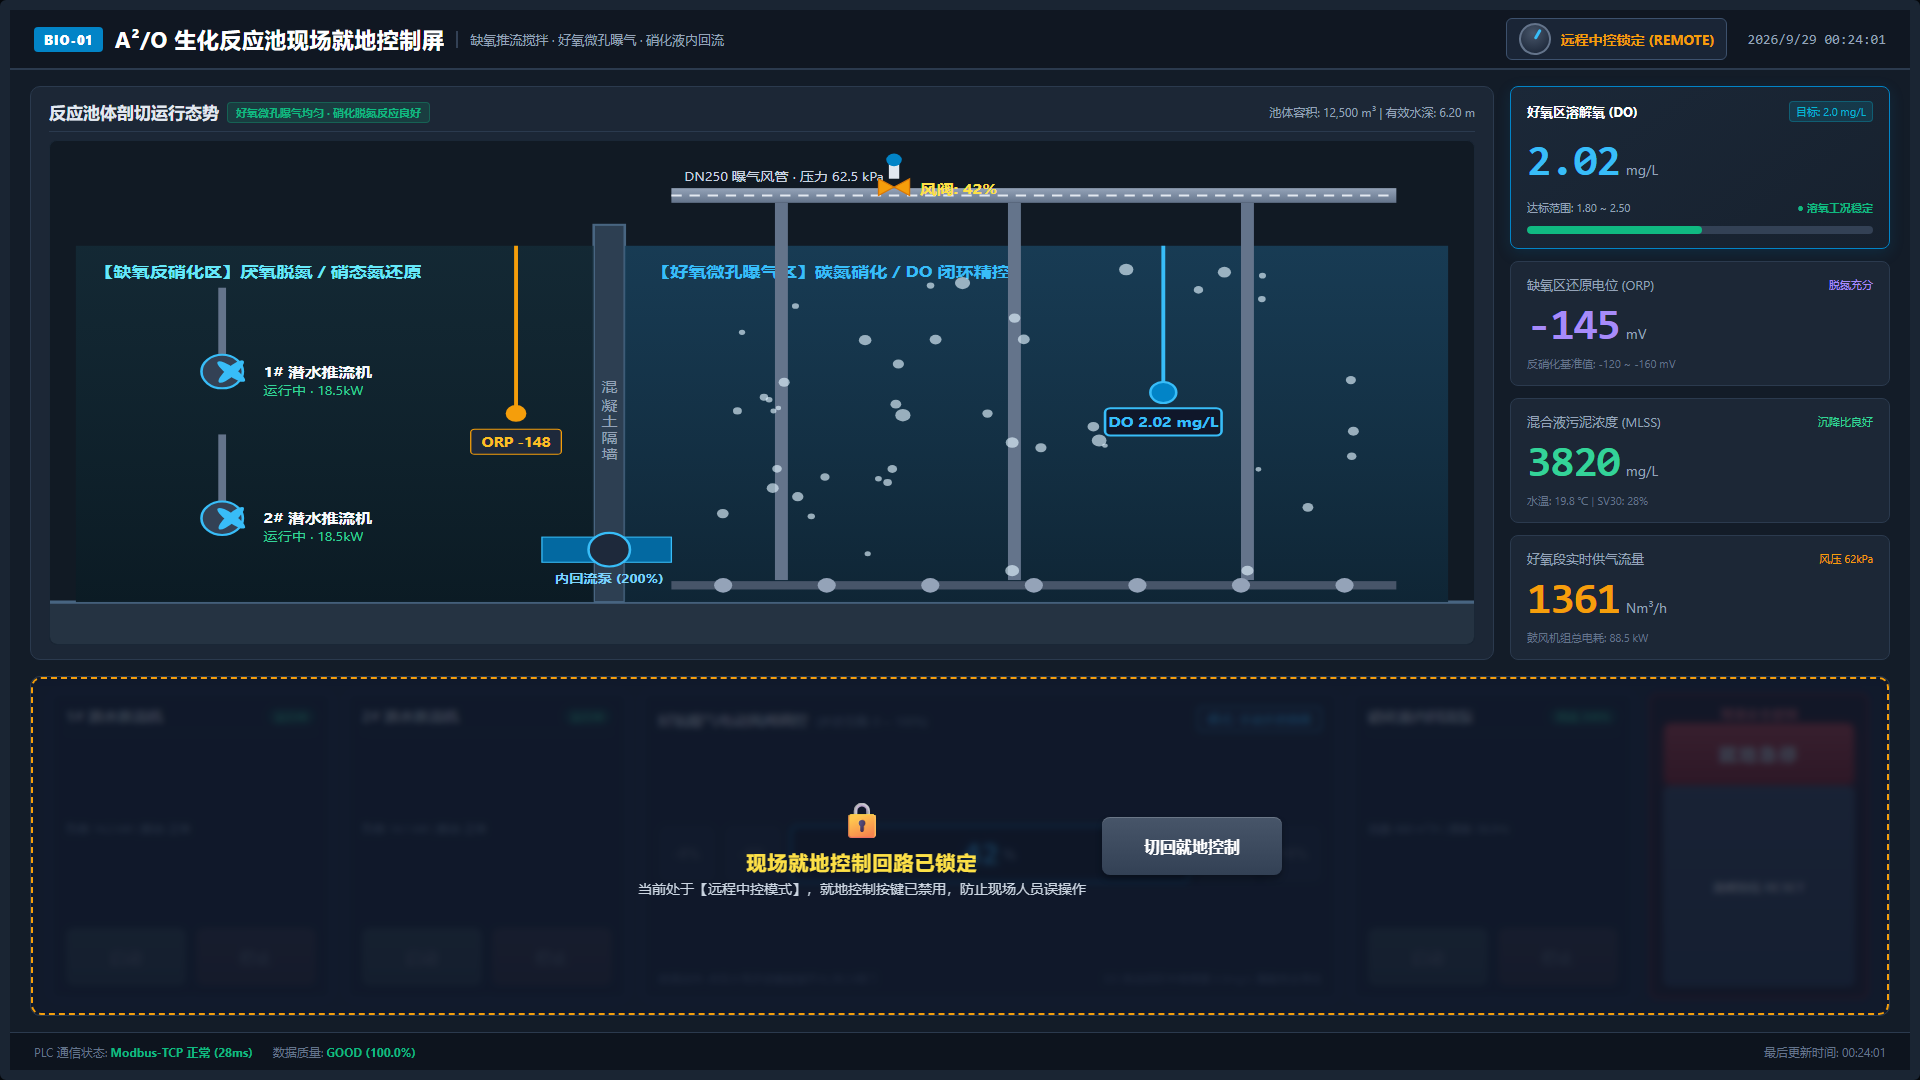
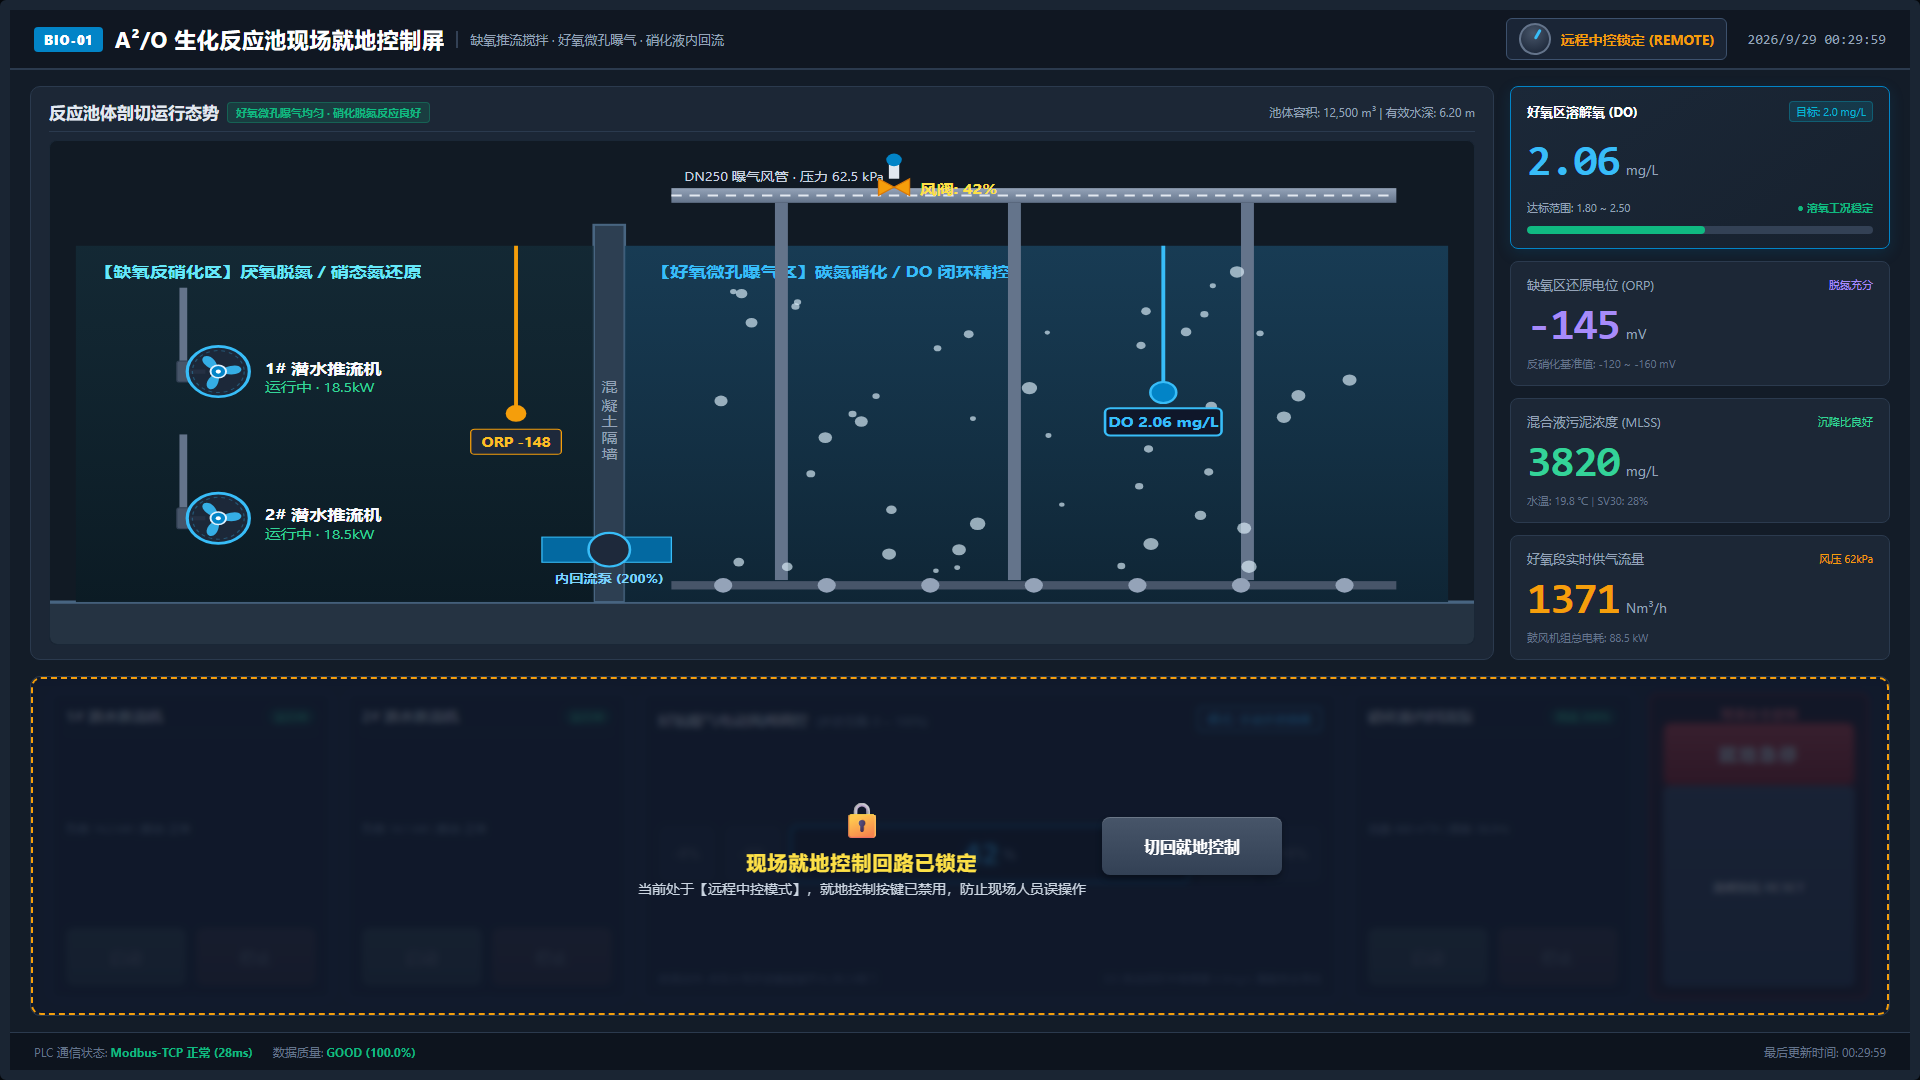
fix(scenario-24): 优化推流机大号导流外圈并精确对齐旋转叶片圆心 / Enlarge mixer shroud ring and precisely center rotating blades
- 将潜水推流机导流外圈半径放大至 r=24，圆心严格居中 (0, 0)

- 重构水力香蕉型推进叶片，采用 SVG rotate(angle 0 0) 绝对圆心旋转，并增设中心轴承机头轮毂

- 同步刷新实机高清截图与 Showcase 体验包预览图

diff --git a/scenarios/water-treatment/24-A2O生化反应池现场就地控制屏.html b/scenarios/water-treatment/24-A2O生化反应池现场就地控制屏.html
@@ -621,27 +621,63 @@ html, body {
 
             <!-- 缺氧搅拌流线与旋转搅拌器 1# / 2# -->
             <!-- 1# 搅拌机 -->
-            <g transform="translate(140, 220)">
-              <rect x="-10" y="-80" width="6" height="80" fill="#64748b" /> <!-- 导杆 -->
-              <circle cx="-7" cy="0" r="16" fill="#334155" stroke="#38bdf8" stroke-width="2" />
-              <g :style="m1.running ? { transform: `rotate(${m1.angle}deg)` } : {}">
-                <ellipse cx="0" cy="0" rx="14" ry="4" fill="#38bdf8" />
-                <ellipse cx="0" cy="0" rx="4" ry="14" fill="#38bdf8" />
+            <g transform="translate(130, 220)">
+              <!-- 升降不锈钢导杆与就地固定支架 -->
+              <rect x="-30" y="-80" width="6" height="90" fill="#64748b" />
+              <!-- 水下定位抱箍滑块与横向连杆 -->
+              <rect x="-32" y="-10" width="10" height="20" rx="2" fill="#475569" stroke="#334155" />
+              <line x1="-22" y1="0" x2="-10" y2="0" stroke="#64748b" stroke-width="4" />
+              
+              <!-- 潜水推流机导流环 (大号外圆圈 r=24，圆心严格为 0,0) -->
+              <circle cx="0" cy="0" r="24" :fill="m1.running ? 'rgba(30, 41, 59, 0.9)' : '#1e293b'" :stroke="m1.running ? '#38bdf8' : '#64748b'" stroke-width="2.5" />
+              <!-- 内部导流细圈 -->
+              <circle cx="0" cy="0" r="20" fill="none" stroke="rgba(56, 189, 248, 0.3)" stroke-width="1" stroke-dasharray="3 3" />
+              
+              <!-- 旋转叶片组：SVG 原生 rotate(angle 0 0) 绝对绕圆心旋转，绝无偏差 -->
+              <g :transform="m1.running ? `rotate(${m1.angle} 0 0)` : ''" style="transform-origin: 0px 0px;">
+                <!-- 3 片水力流线型推进桨叶 (半径 17px，完全在 r=24 圈内旋转) -->
+                <path d="M 0 0 C 4 -6, 14 -12, 17 -6 C 18 -1, 10 3, 0 0 Z" fill="#38bdf8" opacity="0.9" />
+                <path d="M 0 0 C 4 -6, 14 -12, 17 -6 C 18 -1, 10 3, 0 0 Z" transform="rotate(120 0 0)" fill="#38bdf8" opacity="0.9" />
+                <path d="M 0 0 C 4 -6, 14 -12, 17 -6 C 18 -1, 10 3, 0 0 Z" transform="rotate(240 0 0)" fill="#38bdf8" opacity="0.9" />
               </g>
-              <text x="25" y="5" fill="#f8fafc" font-size="13" font-weight="bold">1# 潜水推流机</text>
-              <text x="25" y="22" :fill="m1.running ? '#34d399' : '#94a3b8'" font-size="11">{{ m1.running ? '运行中 · 18.5kW' : '已停机' }}</text>
+
+              <!-- 中心机头轮毂轴承 (居中不动) -->
+              <circle cx="0" cy="0" r="6" fill="#0284c7" stroke="#e0f2fe" stroke-width="1.5" />
+              <circle cx="0" cy="0" r="2" fill="#fff" />
+
+              <!-- 文字标签 -->
+              <text x="36" y="2" fill="#f8fafc" font-size="14" font-weight="bold">1# 潜水推流机</text>
+              <text x="36" y="20" :fill="m1.running ? '#34d399' : '#94a3b8'" font-size="12">{{ m1.running ? '运行中 · 18.5kW' : '已停机' }}</text>
             </g>
 
             <!-- 2# 搅拌机 -->
-            <g transform="translate(140, 360)">
-              <rect x="-10" y="-80" width="6" height="80" fill="#64748b" />
-              <circle cx="-7" cy="0" r="16" fill="#334155" stroke="#38bdf8" stroke-width="2" />
-              <g :style="m2.running ? { transform: `rotate(${m2.angle}deg)` } : {}">
-                <ellipse cx="0" cy="0" rx="14" ry="4" fill="#38bdf8" />
-                <ellipse cx="0" cy="0" rx="4" ry="14" fill="#38bdf8" />
+            <g transform="translate(130, 360)">
+              <!-- 升降不锈钢导杆与就地固定支架 -->
+              <rect x="-30" y="-80" width="6" height="90" fill="#64748b" />
+              <!-- 水下定位抱箍滑块与横向连杆 -->
+              <rect x="-32" y="-10" width="10" height="20" rx="2" fill="#475569" stroke="#334155" />
+              <line x1="-22" y1="0" x2="-10" y2="0" stroke="#64748b" stroke-width="4" />
+              
+              <!-- 潜水推流机导流环 (大号外圆圈 r=24，圆心严格为 0,0) -->
+              <circle cx="0" cy="0" r="24" :fill="m2.running ? 'rgba(30, 41, 59, 0.9)' : '#1e293b'" :stroke="m2.running ? '#38bdf8' : '#64748b'" stroke-width="2.5" />
+              <!-- 内部导流细圈 -->
+              <circle cx="0" cy="0" r="20" fill="none" stroke="rgba(56, 189, 248, 0.3)" stroke-width="1" stroke-dasharray="3 3" />
+              
+              <!-- 旋转叶片组：SVG 原生 rotate(angle 0 0) 绝对绕圆心旋转，绝无偏差 -->
+              <g :transform="m2.running ? `rotate(${m2.angle} 0 0)` : ''" style="transform-origin: 0px 0px;">
+                <!-- 3 片水力流线型推进桨叶 (半径 17px，完全在 r=24 圈内旋转) -->
+                <path d="M 0 0 C 4 -6, 14 -12, 17 -6 C 18 -1, 10 3, 0 0 Z" fill="#38bdf8" opacity="0.9" />
+                <path d="M 0 0 C 4 -6, 14 -12, 17 -6 C 18 -1, 10 3, 0 0 Z" transform="rotate(120 0 0)" fill="#38bdf8" opacity="0.9" />
+                <path d="M 0 0 C 4 -6, 14 -12, 17 -6 C 18 -1, 10 3, 0 0 Z" transform="rotate(240 0 0)" fill="#38bdf8" opacity="0.9" />
               </g>
-              <text x="25" y="5" fill="#f8fafc" font-size="13" font-weight="bold">2# 潜水推流机</text>
-              <text x="25" y="22" :fill="m2.running ? '#34d399' : '#94a3b8'" font-size="11">{{ m2.running ? '运行中 · 18.5kW' : '已停机' }}</text>
+
+              <!-- 中心机头轮毂轴承 (居中不动) -->
+              <circle cx="0" cy="0" r="6" fill="#0284c7" stroke="#e0f2fe" stroke-width="1.5" />
+              <circle cx="0" cy="0" r="2" fill="#fff" />
+
+              <!-- 文字标签 -->
+              <text x="36" y="2" fill="#f8fafc" font-size="14" font-weight="bold">2# 潜水推流机</text>
+              <text x="36" y="20" :fill="m2.running ? '#34d399' : '#94a3b8'" font-size="12">{{ m2.running ? '运行中 · 18.5kW' : '已停机' }}</text>
             </g>
 
             <!-- ORP 在线探头 -->
